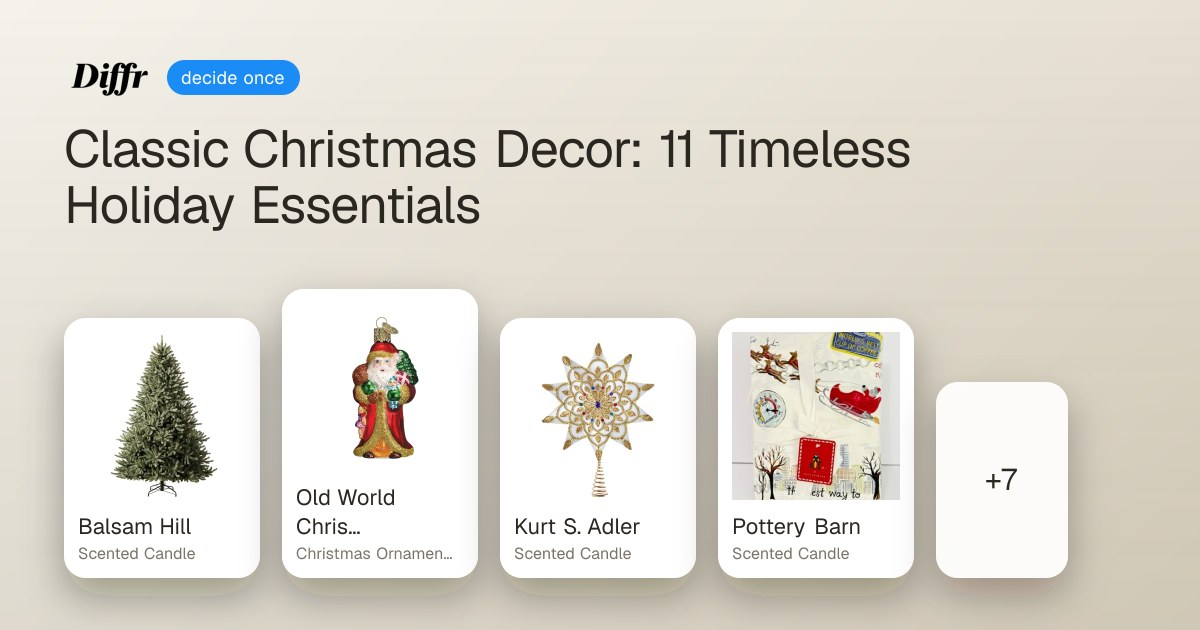
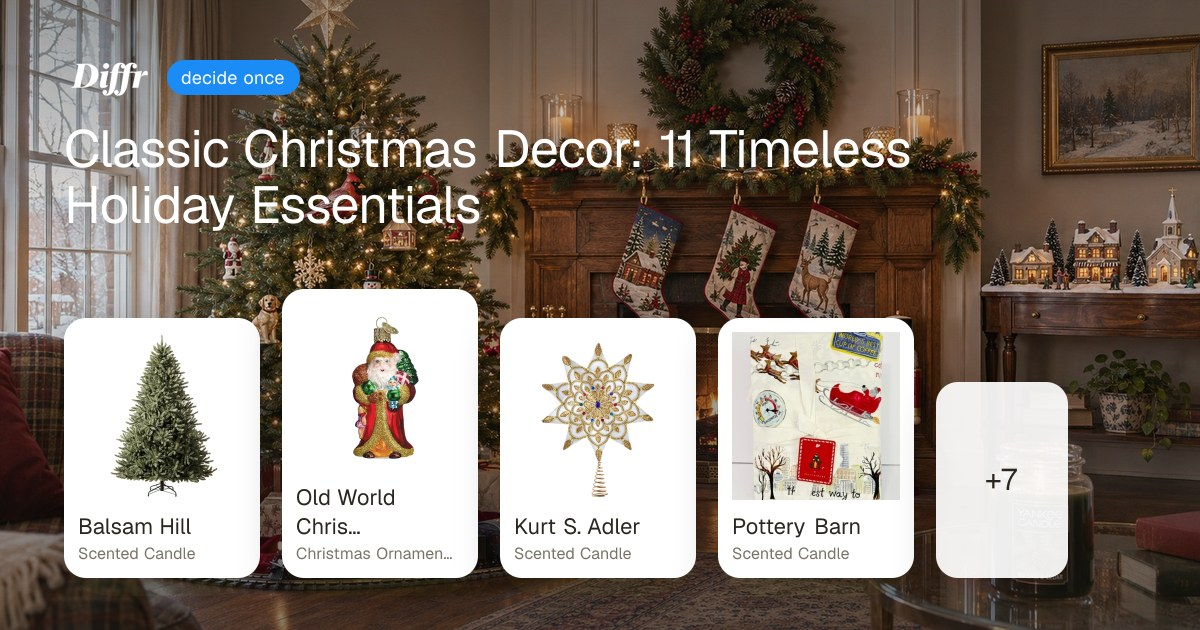
feat(diffr): add OG base covers and rebake share cards for presets 212-213

diff --git a/app/diffr/blog/og-base.ts b/app/diffr/blog/og-base.ts
@@ -125,6 +125,8 @@ export const OG_BASE_SLUGS = new Set<string>([
   'urban-architect-edc-brand-guide',
   'wimb-rainy-london-commute-brand-guide',
   'styling-ivy-prep-autumn-brand-guide',
+  'classic-christmas-decor-ideas',
+  'kids-art-craft-studio-brand-guide',
   '54321-packing-method-brand-guide',
   // Aritzia / athleisure rescue pages (2026-09-15)
   'wilfred-brand-guide',
